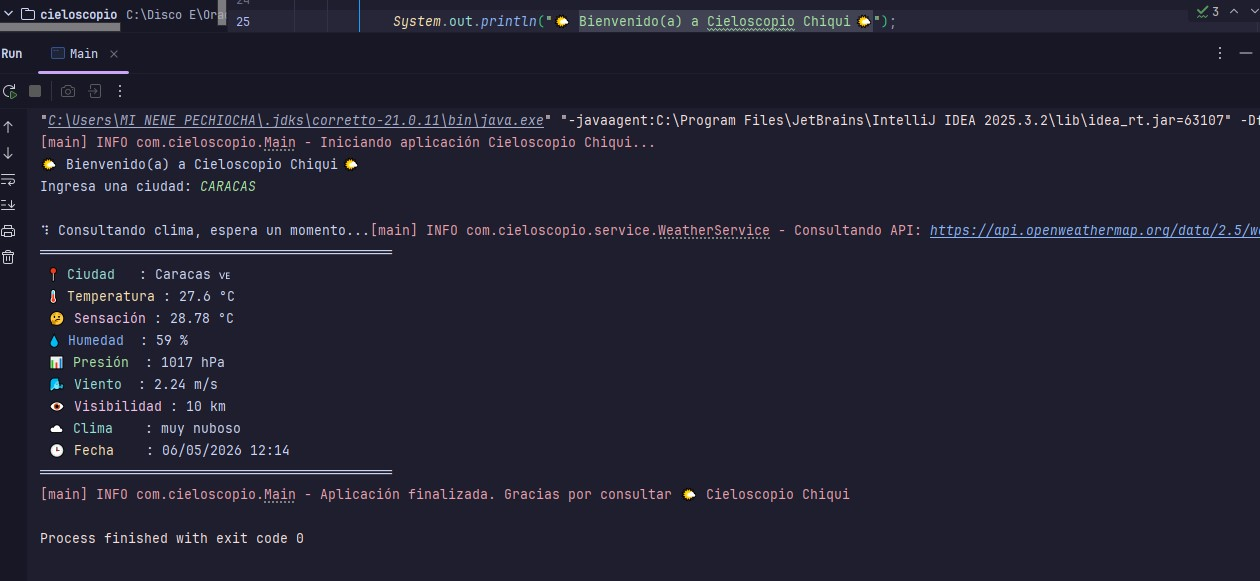
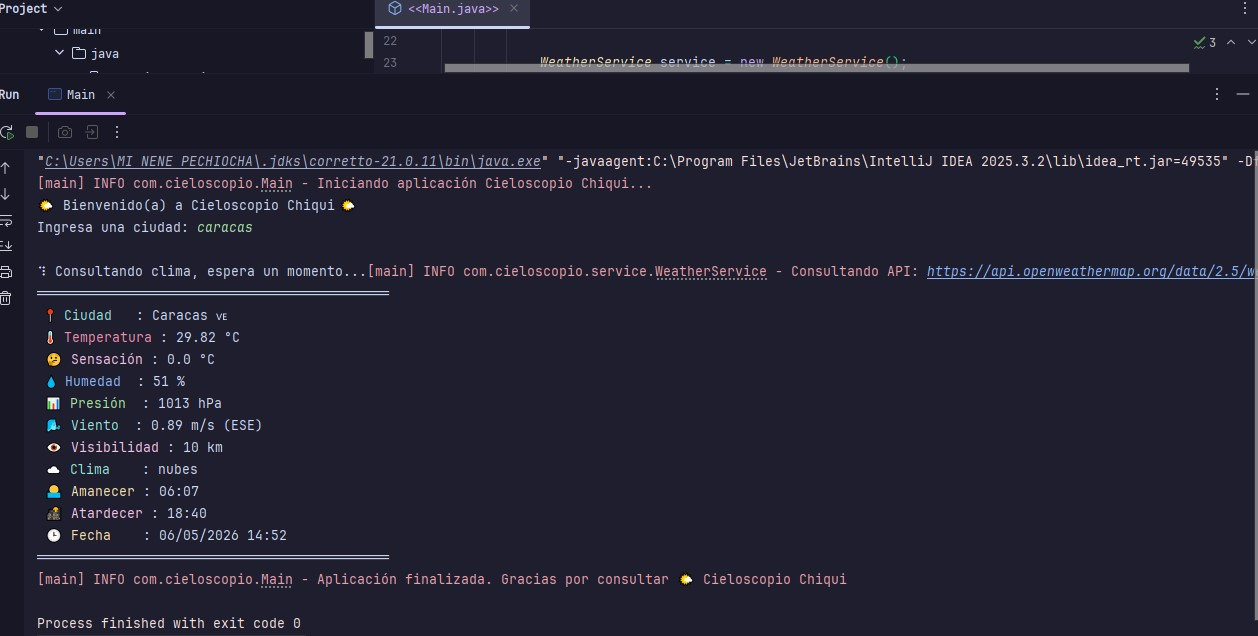
cieloscopio funcional

diff --git a/src/main/java/com/cieloscopio/view/ConsoleFormatter.java b/src/main/java/com/cieloscopio/view/ConsoleFormatter.java
@@ -37,21 +37,23 @@ public final class ConsoleFormatter {
         // 🌍 CIUDAD
         printLine(CYAN + "📍 Ciudad", response.name() + " " + flag);
 
-        // 🌡️ TEMPERATURA (con color dinámico)
-        printLine(
-                TemperatureColor.color(response.main().temp()) + "🌡️ Temperatura",
-                response.main().temp() + " °C"
-        );
+        // 🌡️ TEMPERATURA con color dinámico
+        String tempColor = TemperatureColor.color(response.main().temp());
+        printLine(tempColor + "🌡️ Temperatura",
+                response.main().temp() + " °C");
 
         // 🤔 SENSACIÓN
-        printLine(MAGENTA + "🤔 Sensación", response.main().feelsLike() + " °C");
+        printLine(MAGENTA + "🤔 Sensación",
+                response.main().feelsLike() + " °C");
 
         // 💧 HUMEDAD
-        printLine(BLUE + "💧 Humedad", response.main().humidity() + " %");
+        printLine(BLUE + "💧 Humedad",
+                response.main().humidity() + " %");
 
         // 📊 PRESIÓN
         if (response.main().pressure() > 0) {
-            printLine(GREEN + "📊 Presión", response.main().pressure() + " hPa");
+            printLine(GREEN + "📊 Presión",
+                    response.main().pressure() + " hPa");
         }
 
         // 🌬️ VIENTO
@@ -63,7 +65,8 @@ public final class ConsoleFormatter {
 
         // 👁️ VISIBILIDAD
         if (response.visibility() > 0) {
-            printLine(MAGENTA + "👁️ Visibilidad", (response.visibility() / 1000) + " km");
+            printLine(MAGENTA + "👁️ Visibilidad",
+                    (response.visibility() / 1000) + " km");
         }
 
         // ☁️ CLIMA
@@ -72,12 +75,23 @@ public final class ConsoleFormatter {
                     response.weather().getFirst().description());
         }
 
+        // 🌅🌇 SOL (seguro null-safe)
+        if (response.sys() != null) {
+
+            String sunrise = SunFormatter.format(response.sys().sunrise());
+            String sunset = SunFormatter.format(response.sys().sunset());
+
+            printLine(YELLOW + "🌅 Amanecer", sunrise);
+            printLine(MAGENTA + "🌇 Atardecer", sunset);
+        }
+
         // 🕒 FECHA
         printLine(YELLOW + "🕒 Fecha", dateTime);
 
         System.out.println(border + RESET);
     }
 
+    // 📦 PRINT LINE
     private static void printLine(String label, String value) {
         System.out.printf(" %-20s : %-20s %n", label + RESET, value + RESET);
     }

diff --git a/src/main/java/com/cieloscopio/view/SunFormatter.java b/src/main/java/com/cieloscopio/view/SunFormatter.java
@@ -1,0 +1,17 @@
+package com.cieloscopio.view;
+
+import java.time.Instant;
+import java.time.ZoneId;
+import java.time.format.DateTimeFormatter;
+
+public final class SunFormatter {
+
+    private SunFormatter() {}
+
+    public static String format(long timestamp) {
+
+        return Instant.ofEpochSecond(timestamp)
+                .atZone(ZoneId.systemDefault())
+                .format(DateTimeFormatter.ofPattern("HH:mm"));
+    }
+}

diff --git a/README.md b/README.md
@@ -34,6 +34,8 @@ No es solo código… es una conversación con el cielo 🌤️
 [//]: # ()
 [//]: # (---)
 
+---
+
 ## 📸 Screenshots
 
 ### 🌤️ Resultado en consola
@@ -42,6 +44,9 @@ No es solo código… es una conversación con el cielo 🌤️
 [//]: # (### 🎨 Interfaz estilo dashboard)
 
 [//]: # (![Console UI]&#40;https://via.placeholder.com/800x300.png?text=CLI+Weather+Dashboard&#41;)
+
+### 🌤️ Resultado en postman
+![Weather Output](/postman1.jpg)
 
 ---
 
@@ -177,15 +182,17 @@ java -jar target/cieloscopio.jar
 
 ```tex
 ════════════════════════════════════════════
-📍 Ciudad        : Caracas 🇻🇪
-🌡️ Temperatura   : 27.3 °C
-🤔 Sensación     : 28.4 °C
-💧 Humedad       : 59 %
-📊 Presión       : 1013 hPa
-🌬️ Viento        : 2.4 m/s
-👁️ Visibilidad   : 10 km
-☁️ Clima         : algo de nubes
-🕒 Fecha         : 06/05/2026 19:42
+📍 Ciudad   : Caracas 🇻🇪     
+ 🌡️ Temperatura : 29.82 °C         
+ 🤔 Sensación : 0.0 °C           
+ 💧 Humedad  : 52 %             
+ 📊 Presión  : 1013 hPa         
+ 🌬️ Viento  : 2.57 m/s (ENE)   
+ 👁️ Visibilidad : 10 km            
+ ☁️ Clima    : algo de nubes    
+ 🌅 Amanecer : 06:07            
+ 🌇 Atardecer : 18:40            
+ 🕒 Fecha    : 05/05/2026 14:58
 ════════════════════════════════════════════
 ``` 
 ---